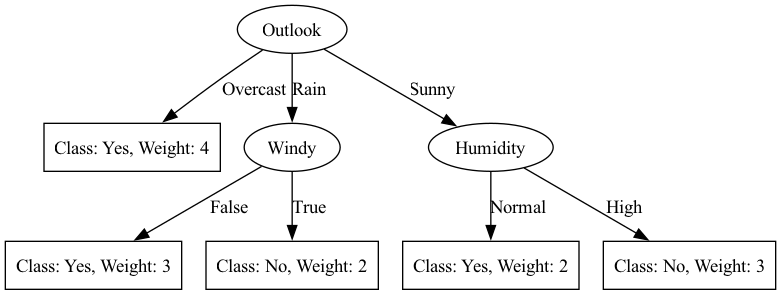
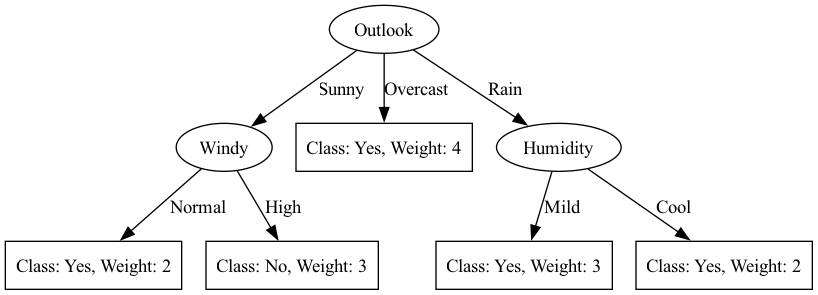
split categorical in groups with +

diff --git a/C45/__init__.py b/C45/__init__.py
@@ -1,11 +1,50 @@
 import math
 import pandas as pd
 import numpy as np
+from itertools import combinations
 
 
 def is_numeric_attribute(data, attribute_index):
     # This assumes `data` is a DataFrame
     return (isinstance(data[0][attribute_index], int) and not isinstance(data[0][attribute_index], bool)) or isinstance(data[0][attribute_index], float)
+
+
+def generate_unique_groupings(lst):
+    '''
+    Function to return the combinations for unique values
+    :param lst:
+    :return:
+    '''
+    def recursive_groupings(elements):
+        if not elements:
+            return [[]]
+        result = []
+        for i in range(1, len(elements) + 1):
+            for combination in combinations(elements, i):
+                remaining = [e for e in elements if e not in combination]
+                for sub_grouping in recursive_groupings(remaining):
+                    # Sort inner lists to ensure uniqueness
+                    sorted_combination = sorted([list(combination)] + sub_grouping)
+                    result.append(sorted_combination)
+        return result
+
+    # Start the recursive grouping process
+    all_groupings = recursive_groupings(lst)
+
+    # Filter out groupings that don't use all elements
+    valid_groupings = [grouping for grouping in all_groupings if sum(len(group) for group in grouping) == len(lst)]
+
+    # Use a set to remove duplicates
+    unique_groupings = []
+    seen = set()
+    for grouping in valid_groupings:
+        # Convert grouping to a tuple of tuples so it can be added to a set
+        grouping_tuple = tuple(tuple(sorted(group)) for group in grouping)
+        if grouping_tuple not in seen:
+            seen.add(grouping_tuple)
+            unique_groupings.append(grouping)
+
+    return unique_groupings
 
 
 class _DecisionNode:
@@ -132,54 +171,75 @@ class C45Classifier:
 
         for i, record in enumerate(data):
             if record[attribute_index] == attribute_value:
-                split_data.append(record[:attribute_index] + record[attribute_index+1:])
+                split_data.append(record)
                 split_weights.append(weights[i])
-        print(split_data)
-        print(split_weights)
+        # print(split_data)
+        # print(split_weights)
+        return split_data, split_weights
+
+    def __split_data_categorical(self, data, attribute_index, grouping, weights):
+        split_data = {tuple(group): [] for group in grouping}
+        split_weights = {tuple(group): [] for group in grouping}
+
+        for i, record in enumerate(data):
+            found = False
+            for group in grouping:
+                if record[attribute_index] in group:
+                    split_data[tuple(group)].append(record)
+                    split_weights[tuple(group)].append(weights[i])
+                    found = True
+                    break
+            if not found:
+                split_data[('Other',)].append(record)
+                split_weights[('Other',)].append(weights[i])
+
         return split_data, split_weights
 
     def __select_best_attribute_c50(self, data, attributes, weights):
-        # Select the best attribute to split the dataset using the C5.0 algorithm
         total_entropy = self.__calculate_entropy(data, weights)
         best_attribute = None
-        best_gain_ratio = 0.0  # Can be information gain or gain ratio based on your implementation
-        split_info = 0.0
-        best_threshold = None  # Only applicable for numeric attributes
-
+        best_gain_ratio = 0.0
+        best_threshold = None
+        best_grouping = None
+        print(attributes)
         for attribute_index in range(len(attributes)):
             if is_numeric_attribute(data, attribute_index):
-                print(data[0][attribute_index])
-                print('mpika sto numeric')
                 threshold, measure = self.find_best_threshold(data, attribute_index, weights, total_entropy)
                 if measure > best_gain_ratio:
                     best_gain_ratio = measure
                     best_attribute = attribute_index
                     best_threshold = threshold
+                    best_grouping = None
             else:
-                attribute_values = set([record[attribute_index] for record in data])
-                attribute_entropy = 0.0
+                attribute_values = list(set([record[attribute_index] for record in data]))
+                unique_groupings = generate_unique_groupings(attribute_values)
 
-                for value in attribute_values:
-                    subset, subset_weights = self.__split_data(data, attribute_index, value, weights)
-                    subset_entropy = self.__calculate_entropy(subset, subset_weights)
-                    subset_probability = sum(subset_weights) / sum(weights)
-                    attribute_entropy += subset_probability * subset_entropy
-                    split_info -= subset_probability * math.log2(subset_probability)
+                for grouping in unique_groupings:
+                    split_data, split_weights = self.__split_data_categorical(data, attribute_index, grouping, weights)
+                    attribute_entropy = 0.0
+                    split_info = 0.0
 
+                    for group in grouping:
+                        group_data = split_data[tuple(group)]
+                        group_weights = split_weights[tuple(group)]
+                        if group_data:
+                            subset_entropy = self.__calculate_entropy(group_data, group_weights)
+                            subset_probability = sum(group_weights) / sum(weights)
+                            attribute_entropy += subset_probability * subset_entropy
+                            if subset_probability > 0:
+                                split_info -= subset_probability * math.log2(subset_probability)
 
-                gain = total_entropy - attribute_entropy
+                    gain = total_entropy - attribute_entropy
+                    gain_ratio = gain / split_info if split_info != 0 else 0
 
-                if split_info != 0.0:
-                    gain_ratio = gain / split_info
-                else:
-                    gain_ratio = 0.0
-
-                if gain_ratio > best_gain_ratio:
-                    best_gain_ratio = gain_ratio
-                    best_attribute = attribute_index
-                    best_threshold = None
-        #print(best_threshold)
-        return best_attribute, best_threshold
+                    if gain_ratio > best_gain_ratio:
+                        best_gain_ratio = gain_ratio
+                        best_attribute = attribute_index
+                        best_threshold = None
+                        best_grouping = grouping
+            print(best_grouping)
+        print(best_attribute)
+        return best_attribute, best_threshold, best_grouping
 
     def __majority_class(self, data, weights):
         # Determine the majority class in the dataset
@@ -204,15 +264,12 @@ class C45Classifier:
         return majority_class
 
     def __build_decision_tree(self, data, attributes, weights, depth=0):
-        # Base case: check if maximum depth has been reached
         if self.max_depth is not None and depth >= self.max_depth:
             return _LeafNode(self.__majority_class(data, weights), sum(weights))
 
-        # Check if the current node has enough samples
         if sum(weights) < self.min_samples_leaf:
             return _LeafNode(self.__majority_class(data, weights), sum(weights))
 
-        # Existing check for homogeneity
         class_labels = set([record[-1] for record in data])
         if len(class_labels) == 1:
             return _LeafNode(class_labels.pop(), sum(weights))
@@ -220,47 +277,54 @@ class C45Classifier:
         if len(attributes) == 1:
             return _LeafNode(self.__majority_class(data, weights), sum(weights))
 
-        # Select the best attribute and threshold to split the dataset
-        best_attribute, best_threshold = self.__select_best_attribute_c50(data, attributes, weights)
-        print(best_attribute, best_threshold)
+        best_attribute, best_threshold, best_grouping = self.__select_best_attribute_c50(data, attributes, weights)
+
         if best_attribute is None:
             return _LeafNode(self.__majority_class(data, weights), sum(weights))
 
         best_attribute_name = attributes[best_attribute]
 
         tree = _DecisionNode(best_attribute_name)
-        new_attributes = attributes[:best_attribute] + attributes[best_attribute + 1:]
+        # new_attributes = attributes[:best_attribute] + attributes[best_attribute + 1:]
 
-        # Handle splits based on the best attribute and threshold found
         if best_threshold is not None:
-            left_data = [rec for rec in data if rec[best_attribute] <= best_threshold]
-            right_data = [rec for rec in data if rec[best_attribute] > best_threshold]
-            left_weights = [weights[i] for i, rec in enumerate(data) if rec[best_attribute] <= best_threshold]
-            right_weights = [weights[i] for i, rec in enumerate(data) if rec[best_attribute] > best_threshold]
-
-            # Recursively build the tree for each subset, only if they meet the min_samples_leaf criterion
-            if sum(left_weights) >= self.min_samples_leaf:
-                tree.add_child("<= " + str(best_threshold),
-                               self.__build_decision_tree(left_data, new_attributes, left_weights, depth + 1))
-            else:
-                tree.add_child("<= " + str(best_threshold),
-                               _LeafNode(self.__majority_class(left_data, left_weights), sum(left_weights)))
-
-            if sum(right_weights) >= self.min_samples_leaf:
-                tree.add_child("> " + str(best_threshold),
-                               self.__build_decision_tree(right_data, new_attributes, right_weights, depth + 1))
-            else:
-                tree.add_child("> " + str(best_threshold),
-                               _LeafNode(self.__majority_class(right_data, right_weights), sum(right_weights)))
+            # left_data = [rec for rec in data if rec[best_attribute] <= best_threshold]
+            # right_data = [rec for rec in data if rec[best_attribute] > best_threshold]
+            # left_weights = [weights[i] for i, rec in enumerate(data) if rec[best_attribute] <= best_threshold]
+            # right_weights = [weights[i] for i, rec in enumerate(data) if rec[best_attribute] > best_threshold]
+            #
+            # if sum(left_weights) >= self.min_samples_leaf:
+            #     tree.add_child("<= " + str(best_threshold),
+            #                    self.__build_decision_tree(left_data, new_attributes, left_weights, depth + 1))
+            # else:
+            #     tree.add_child("<= " + str(best_threshold),
+            #                    _LeafNode(self.__majority_class(left_data, left_weights), sum(left_weights)))
+            #
+            # if sum(right_weights) >= self.min_samples_leaf:
+            #     tree.add_child("> " + str(best_threshold),
+            #                    self.__build_decision_tree(right_data, new_attributes, right_weights, depth + 1))
+            # else:
+            #     tree.add_child("> " + str(best_threshold),
+            #                    _LeafNode(self.__majority_class(right_data, right_weights), sum(right_weights)))
+            pass
         else:
-            attribute_values = set([record[best_attribute] for record in data])
-            for value in attribute_values:
-                subset, subset_weights = self.__split_data(data, best_attribute, value, weights)
+            split_data, split_weights = self.__split_data_categorical(data, best_attribute, best_grouping, weights)
+            for group in best_grouping:
+                subset = split_data[tuple(group)]
+                subset_weights = split_weights[tuple(group)]
+                value = " + ".join(map(str, group))
 
                 if sum(subset_weights) >= self.min_samples_leaf:
-                    tree.add_child(value, self.__build_decision_tree(subset, new_attributes, subset_weights, depth + 1))
+                    tree.add_child(value, self.__build_decision_tree(subset, attributes, subset_weights, depth + 1))
                 else:
                     tree.add_child(value, _LeafNode(self.__majority_class(subset, subset_weights), sum(subset_weights)))
+            if 'Other' in split_data:
+                subset = split_data[('Other',)]
+                subset_weights = split_weights[('Other',)]
+                if sum(subset_weights) >= self.min_samples_leaf:
+                    tree.add_child('Other', self.__build_decision_tree(subset, attributes, subset_weights, depth + 1))
+                else:
+                    tree.add_child('Other', _LeafNode(self.__majority_class(subset, subset_weights), sum(subset_weights)))
 
         return tree
 

diff --git a/test2.py b/test2.py
@@ -3,8 +3,13 @@ import pandas as pd
 import numpy as np
 import graphviz
 
-# Sample dataset
-data = pd.DataFrame({
+# expanded_data = pd.read_csv('play_tennis.csv', delimiter=';')
+# expanded_data.drop(columns=['Unnamed: 0'], inplace=True)
+#
+# print(expanded_data.head())
+
+
+expanded_data = pd.DataFrame({
     'Outlook': ['Sunny', 'Sunny', 'Overcast', 'Rain', 'Rain', 'Rain', 'Overcast', 'Sunny', 'Sunny', 'Rain', 'Sunny', 'Overcast', 'Overcast', 'Rain'],
     'Temperature': ['Hot', 'Hot', 'Hot', 'Mild', 'Cool', 'Cool', 'Cool', 'Mild', 'Cool', 'Mild', 'Mild', 'Mild', 'Hot', 'Mild'],
     'Humidity': ['High', 'High', 'High', 'High', 'Normal', 'Normal', 'Normal', 'High', 'Normal', 'Normal', 'Normal', 'High', 'Normal', 'High'],
@@ -12,12 +17,15 @@ data = pd.DataFrame({
     'PlayTennis': ['No', 'No', 'Yes', 'Yes', 'Yes', 'No', 'Yes', 'No', 'Yes', 'Yes', 'Yes', 'Yes', 'Yes', 'No']
 })
 
+expanded_data.to_csv('test_data.csv')
+
+
 # Instantiate the C45Classifier
-classifier = C45Classifier(max_depth=5)
+classifier = C45Classifier(max_depth=5, min_samples_leaf=2)
 
 # Separate features and labels
-features = data.drop('PlayTennis', axis=1)
-labels = data['PlayTennis']
+features = expanded_data.drop('PlayTennis', axis=1)
+labels = expanded_data['PlayTennis']
 
 # Fit the model
 classifier.fit(features, labels)
@@ -52,7 +60,7 @@ print("Decision Rules:")
 classifier.print_rules()
 
 # Generate a visual representation of the decision tree
-classifier.generate_tree_diagram(graphviz, "decision_tree")
+classifier.generate_tree_diagram(graphviz, "decision_tree_2")
 
 # Print summary
 classifier.summary()
